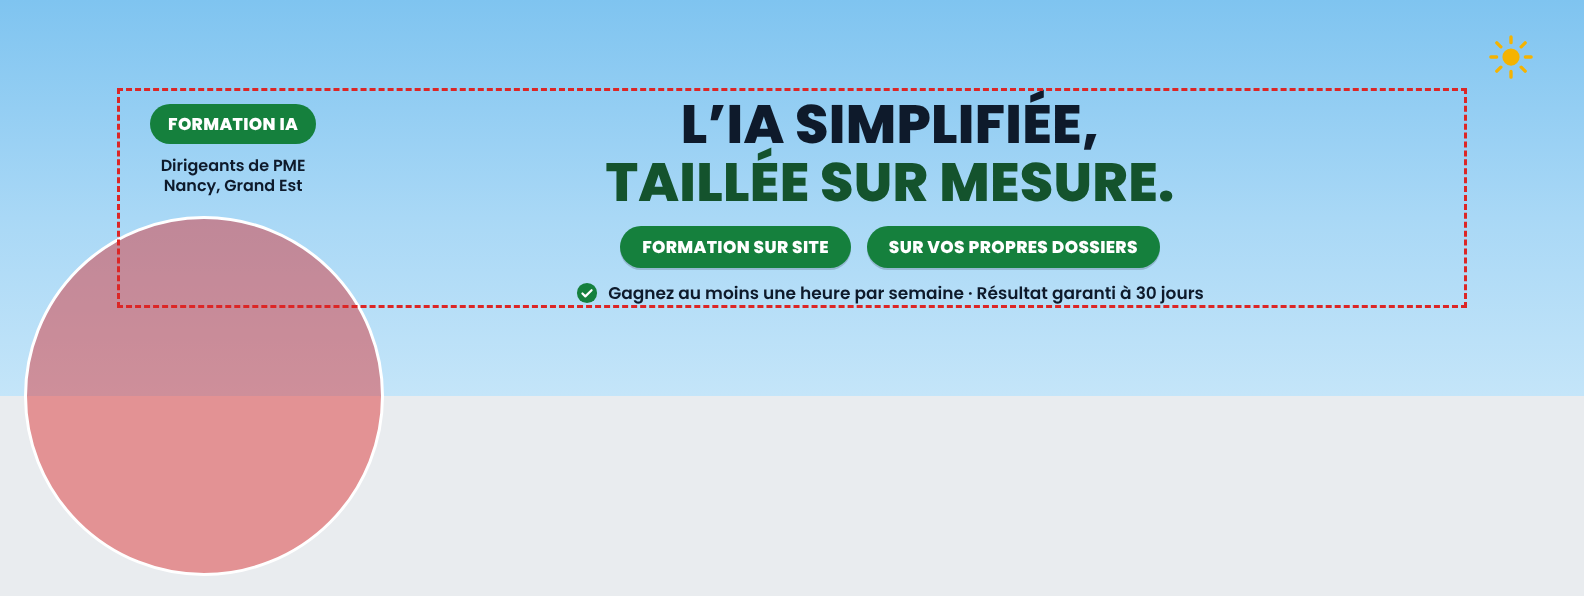
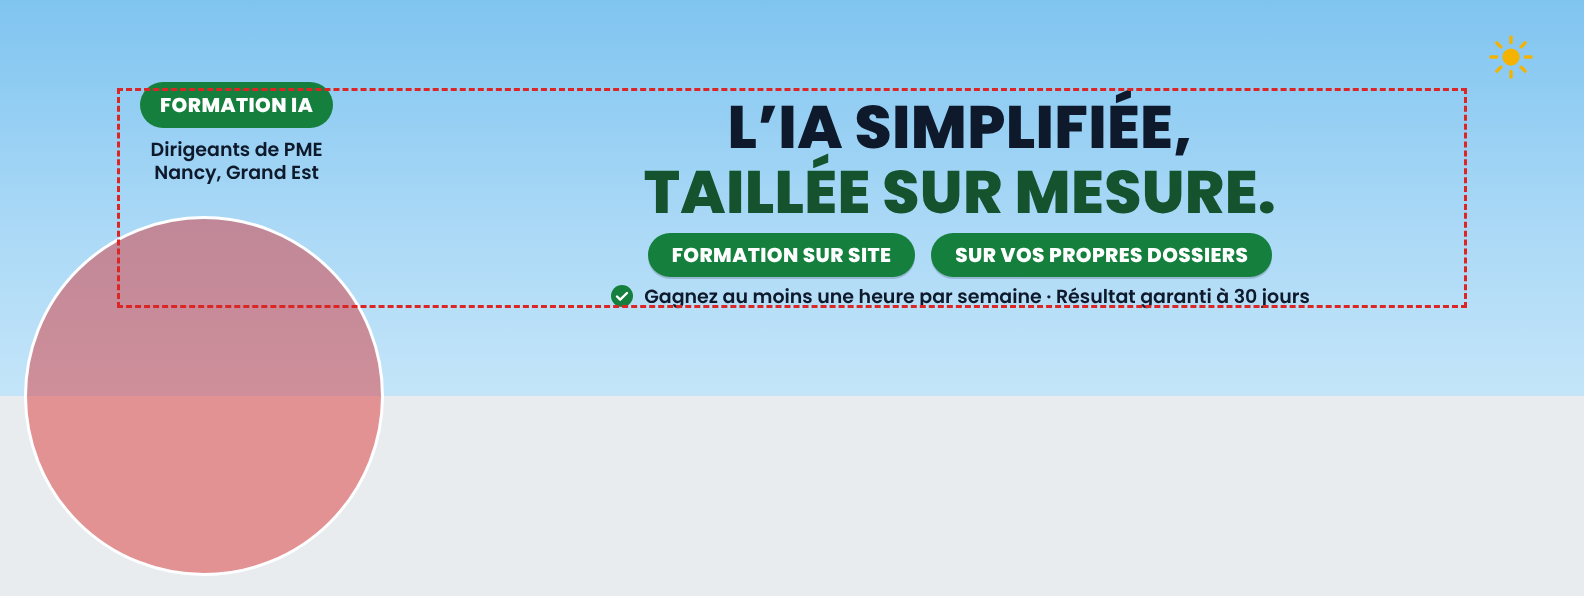
Bannière LinkedIn jour : texte agrandi pour la lisibilité
Claude-Session: https://claude.ai/code/session_01B2JcviS9zVEhczXub5Upsx

Changed region(s): [[0.3403, 0.151, 0.8352, 0.5134], [0.0619, 0.1208, 0.2165, 0.3322]]

diff --git a/sortie/2026-10-27_banniere-linkedin-jour.html b/sortie/2026-10-27_banniere-linkedin-jour.html
@@ -16,23 +16,23 @@ html, body { margin: 0; padding: 0; background: #ffffff; }
 .soleil { position: absolute; left: 1488px; top: 34px; width: 46px; height: 46px; }
 
 /* bloc gauche : ce que c'est, pour qui, où */
-.badge { position: absolute; left: 150px; top: 104px; text-align: center; }
-.badge .pastille { display: inline-block; padding: 7px 18px; border-radius: 999px; background: var(--vert);
-  color: #ffffff; font-weight: 800; font-size: 17px; letter-spacing: .02em; }
-.badge p { margin: 12px 0 0; color: var(--encre); font-weight: 600; font-size: 16px; line-height: 1.25; }
+.badge { position: absolute; left: 140px; top: 82px; text-align: center; }
+.badge .pastille { display: inline-block; padding: 8px 20px; border-radius: 999px; background: var(--vert);
+  color: #ffffff; font-weight: 800; font-size: 20px; letter-spacing: .02em; }
+.badge p { margin: 10px 0 0; color: var(--encre); font-weight: 600; font-size: 19px; line-height: 1.22; }
 
 /* bloc central */
-.centre { position: absolute; left: 420px; width: 940px; top: 95px; text-align: center; }
-.titre { margin: 0; font-weight: 800; font-size: 54px; line-height: 1.08; letter-spacing: .005em; text-transform: none; }
+.centre { position: absolute; left: 460px; width: 1000px; top: 95px; text-align: center; }
+.titre { margin: 0; font-weight: 800; font-size: 60px; line-height: 1.08; letter-spacing: .005em; text-transform: none; }
 .l1 { display: block; color: var(--encre); }
 .l2 { display: block; color: var(--vert-fonce); }
-.pastilles { margin: 14px 0 0; display: flex; justify-content: center; gap: 16px; }
-.pastilles span { padding: 8px 22px; border-radius: 999px; background: var(--vert); color: #ffffff;
-  font-weight: 800; font-size: 17px; letter-spacing: .02em;
+.pastilles { margin: 8px 0 0; display: flex; justify-content: center; gap: 16px; }
+.pastilles span { padding: 7px 24px; border-radius: 999px; background: var(--vert); color: #ffffff;
+  font-weight: 800; font-size: 20px; letter-spacing: .02em;
   box-shadow: 0 2px 0 rgba(14, 26, 43, .18); }
-.preuve { margin: 12px 0 0; display: flex; justify-content: center; align-items: center; gap: 10px;
-  color: var(--encre); font-weight: 600; font-size: 17px; }
-.preuve svg { width: 22px; height: 22px; flex: none; }
+.preuve { margin: 5px 0 0; display: flex; justify-content: center; align-items: center; gap: 10px;
+  color: var(--encre); font-weight: 600; font-size: 19px; }
+.preuve svg { width: 24px; height: 24px; flex: none; }
 </style>
 </head>
 <body>
